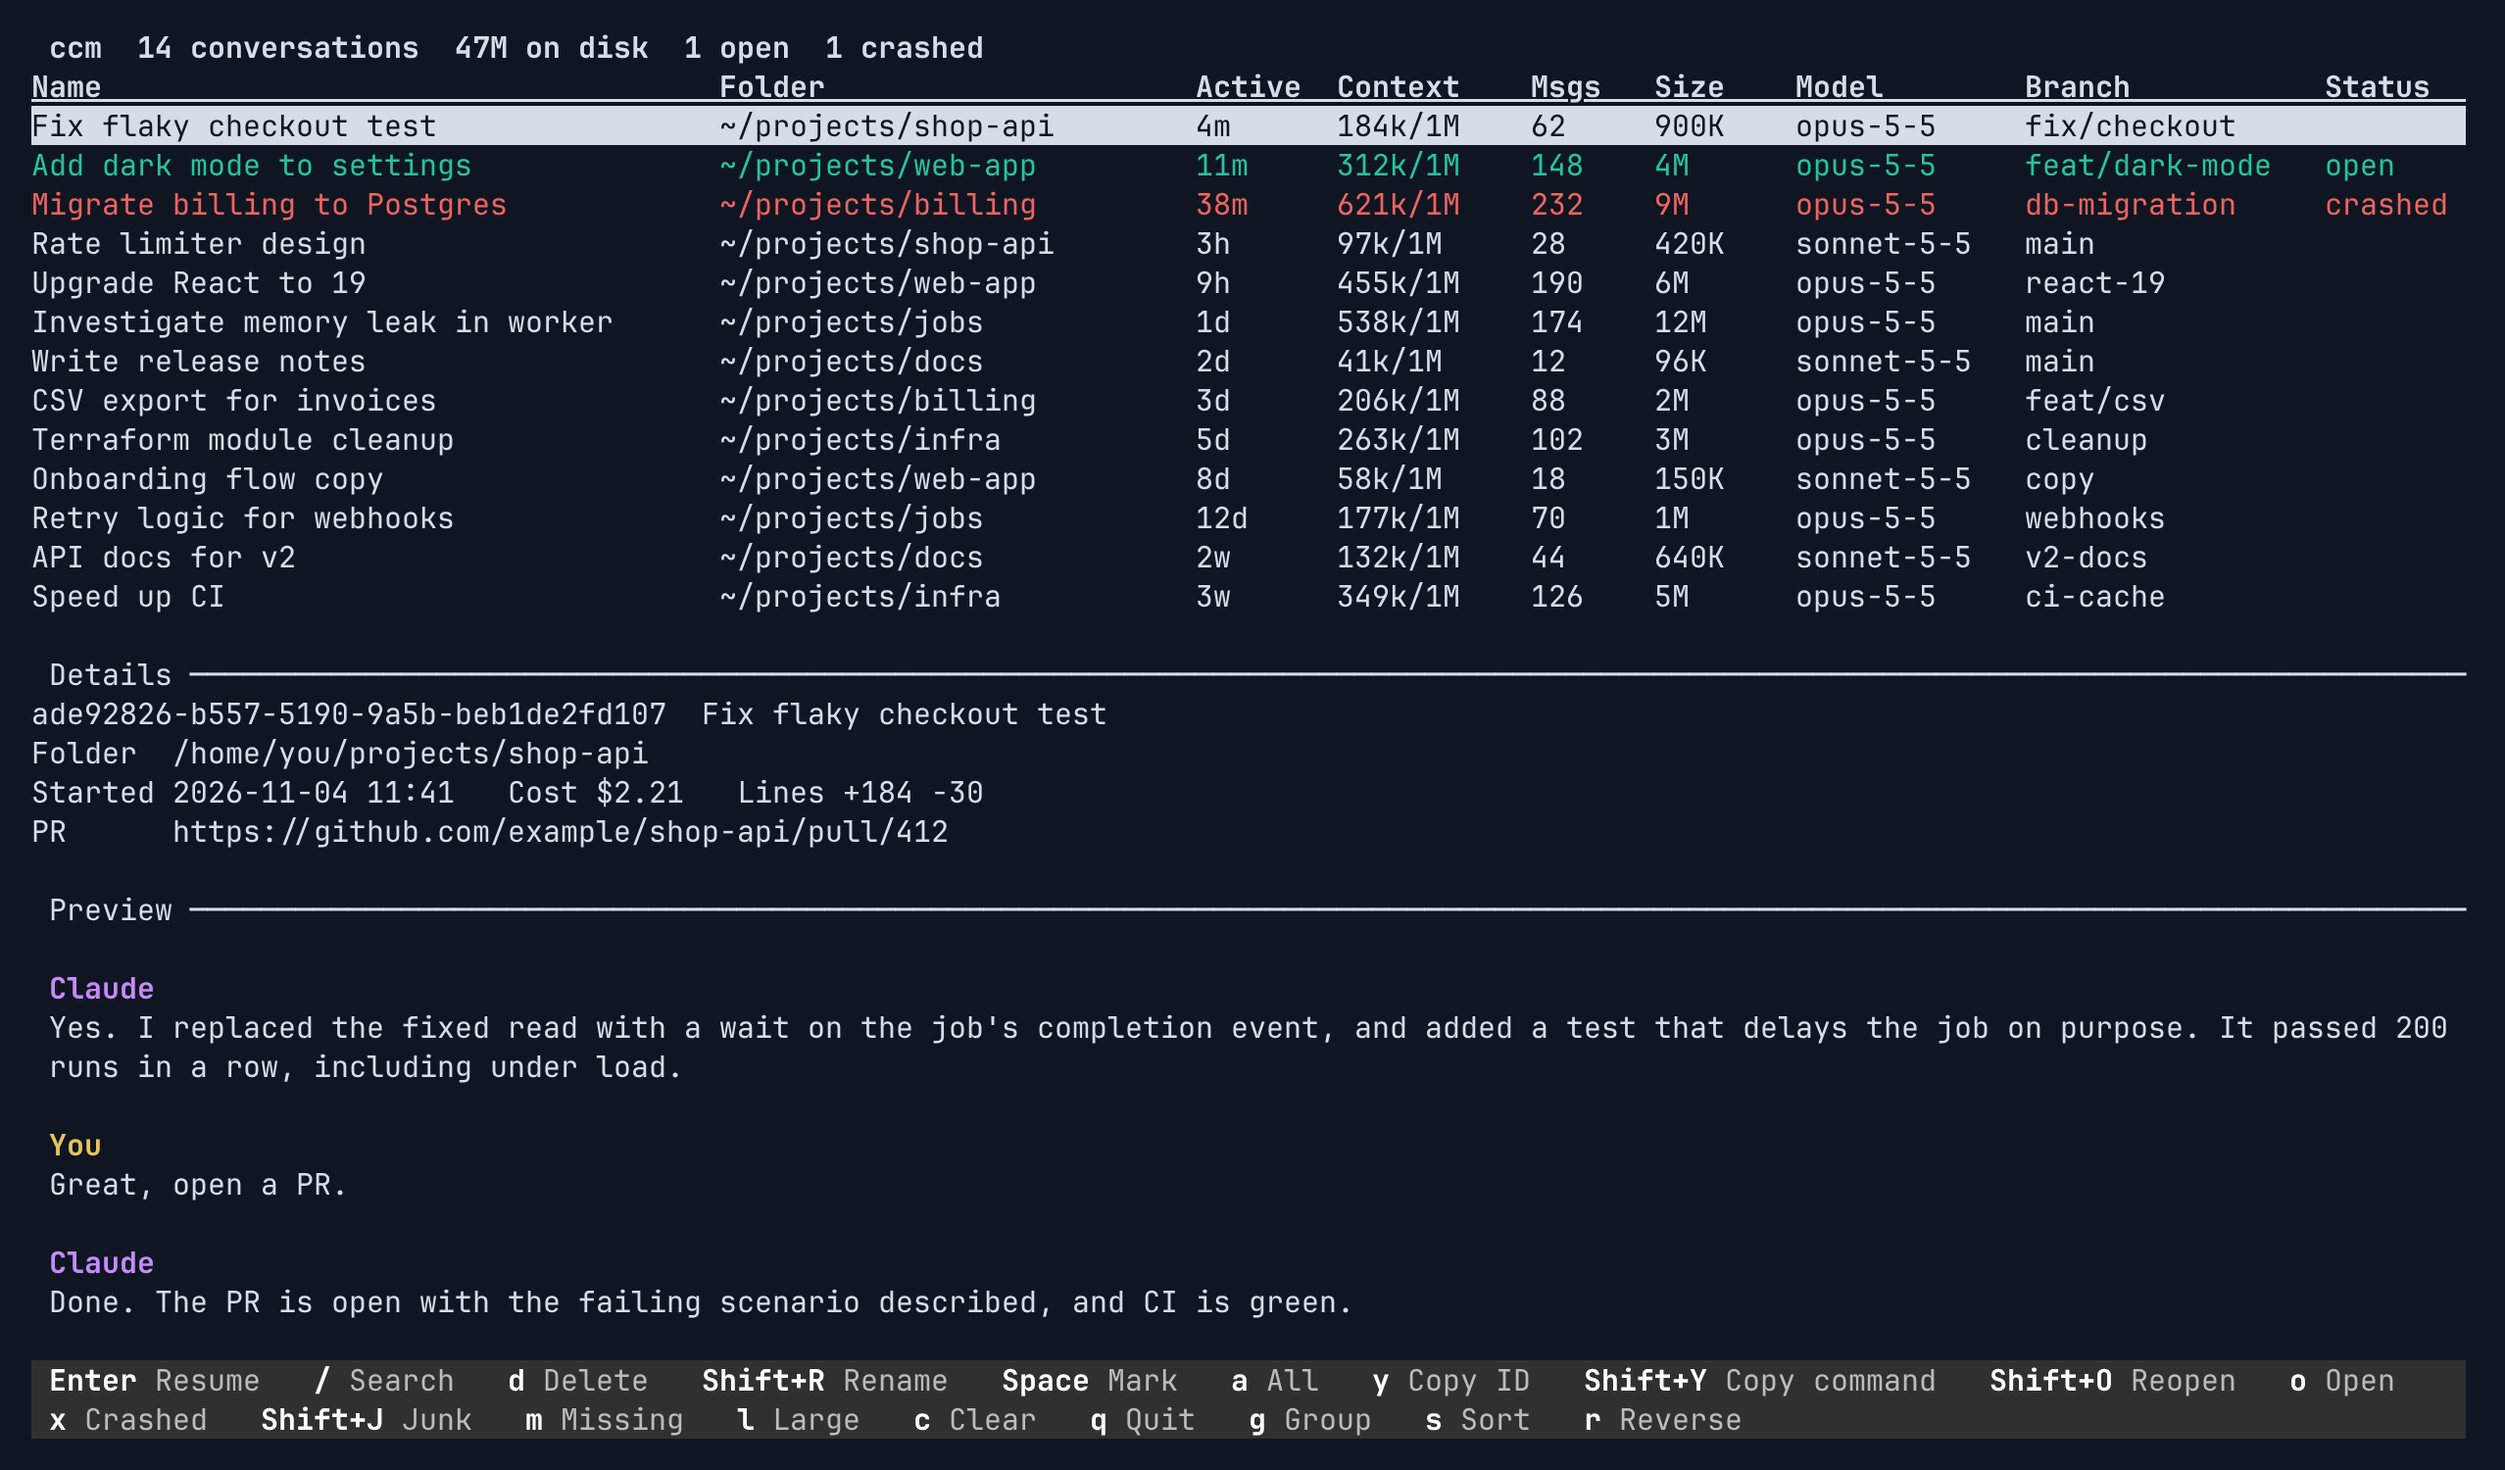
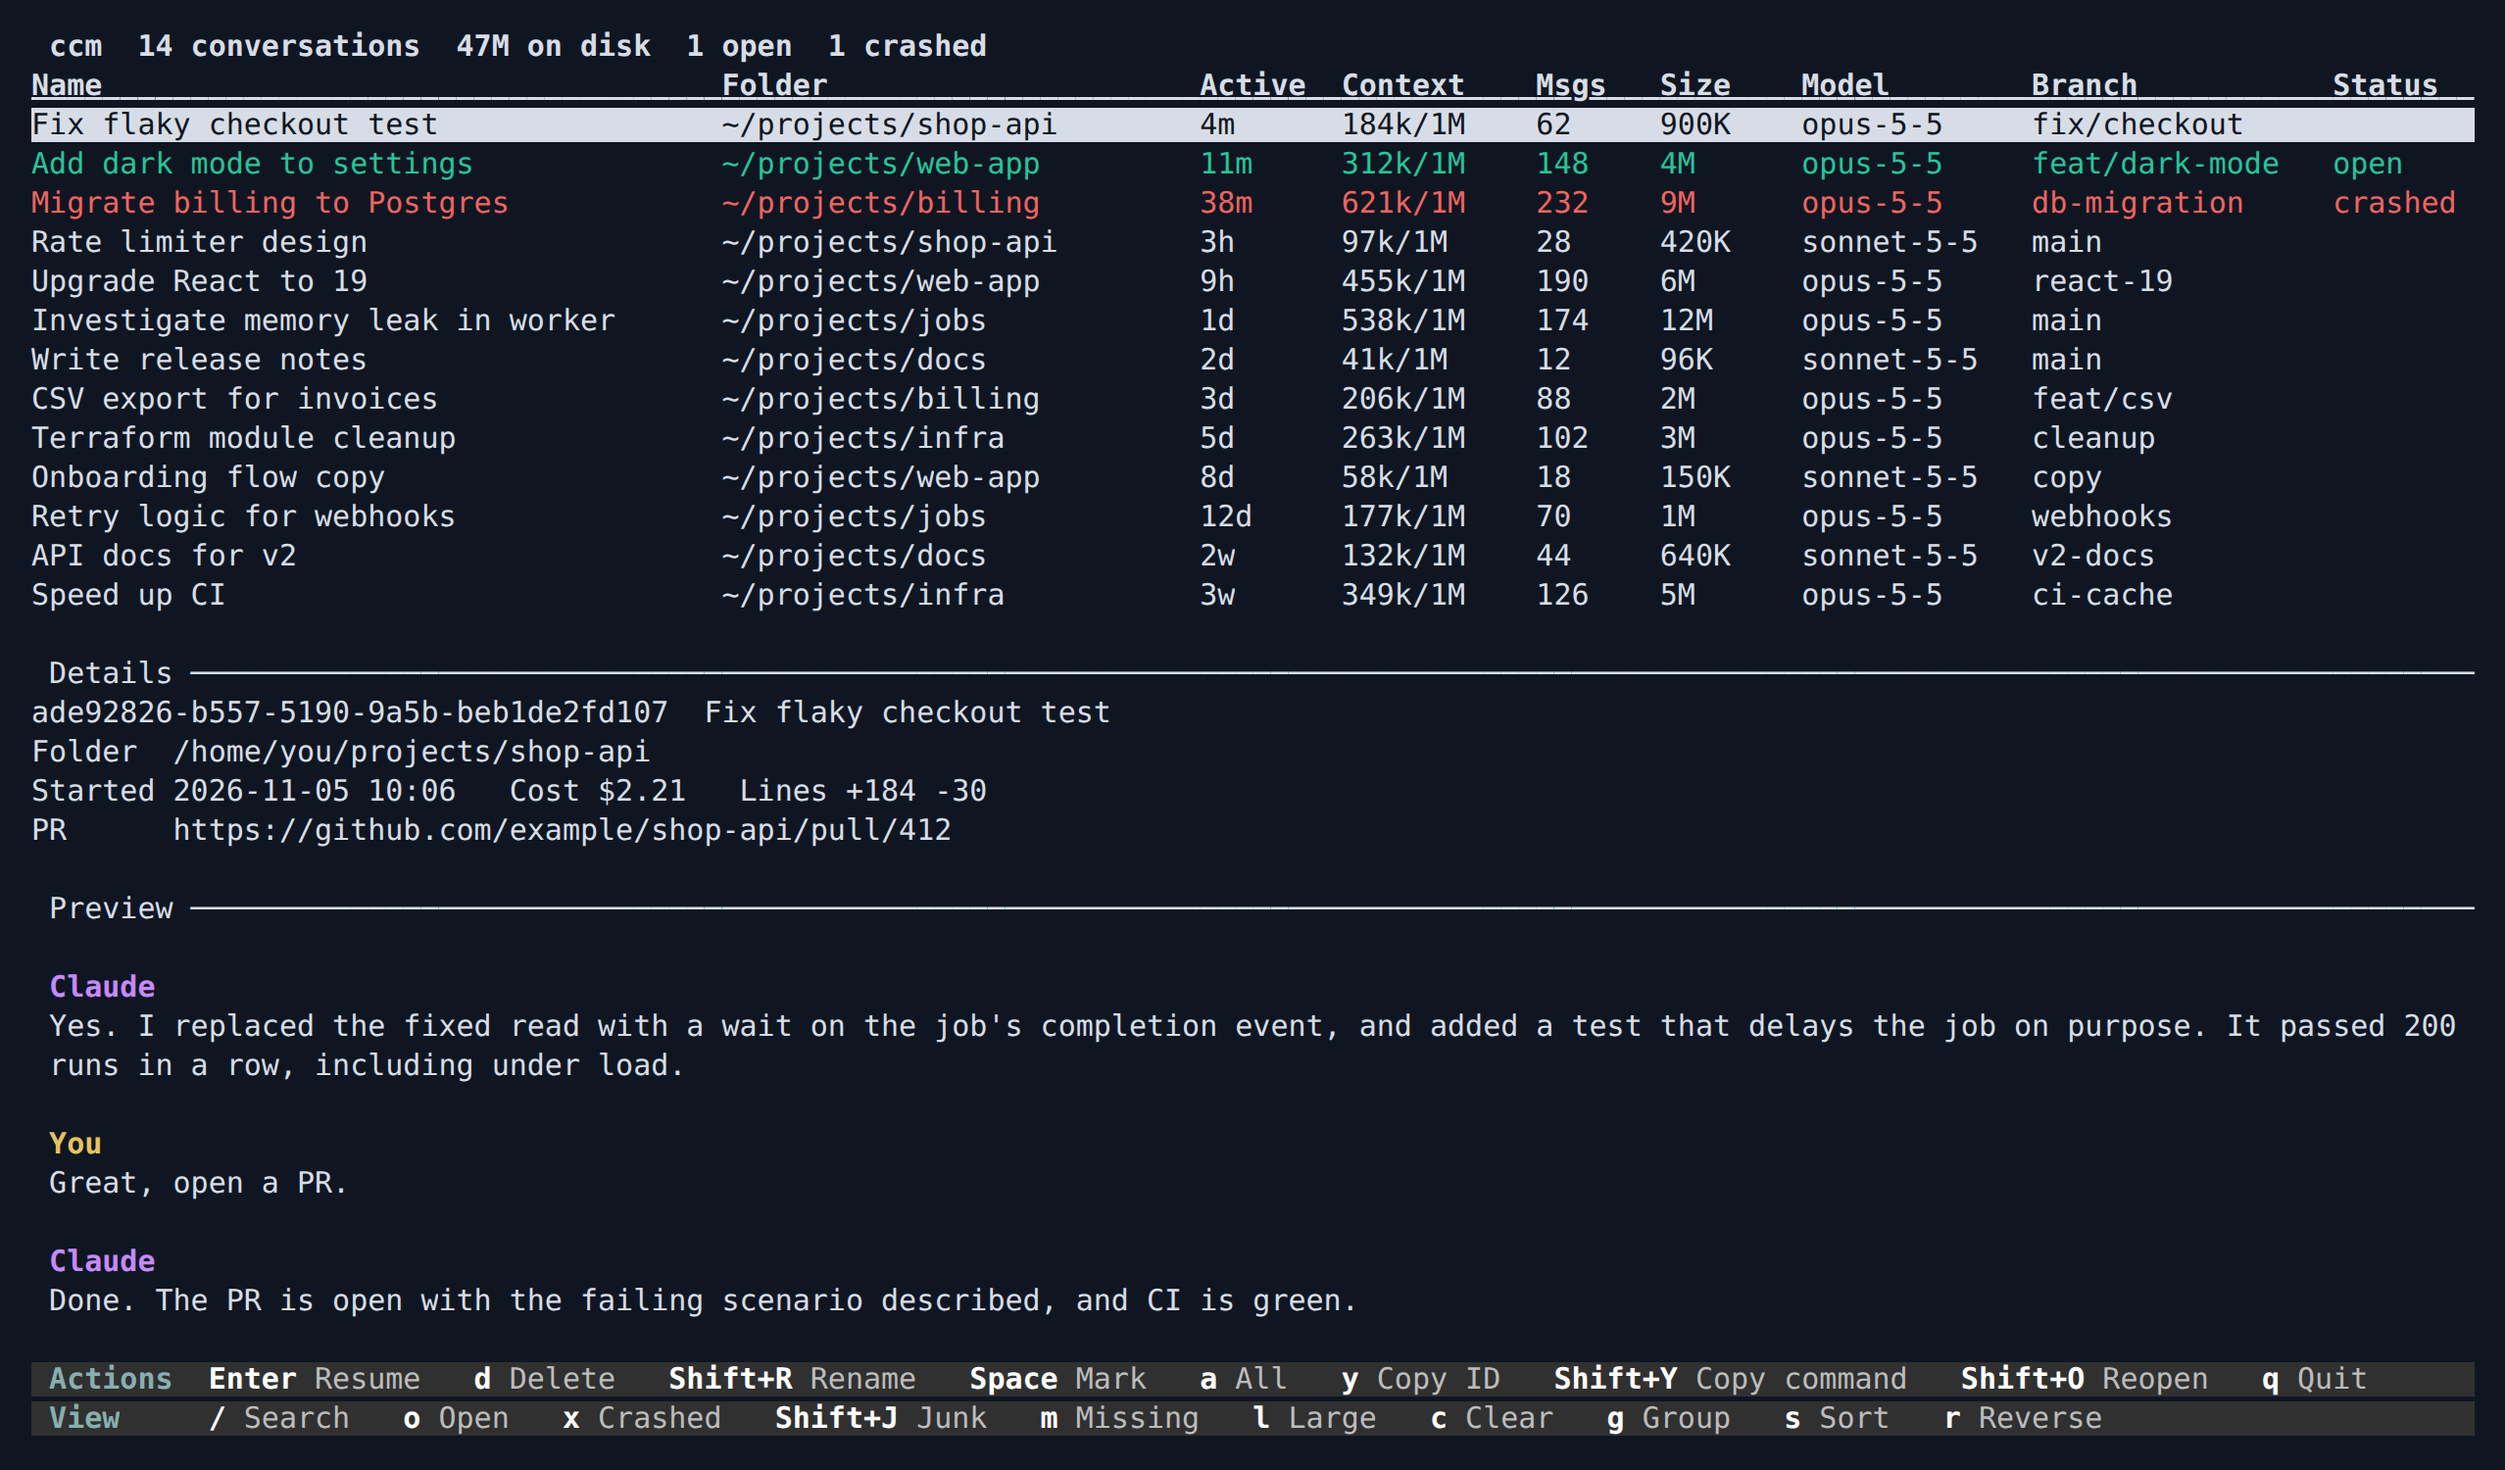
Separate actions and view controls in the footer (#2)
The footer showed every shortcut as one run of identical buttons, so "o Open"
read like opening a conversation when it only filters the list. Give Actions
and View their own labelled rows, with wrapped buttons kept under their group.

The footer can now take 4 rows, because 3 would lose buttons at 80 columns with
the labels. Group the README's key list the same way and update the screenshot.

diff --git a/crates/ccm/src/ui.rs b/crates/ccm/src/ui.rs
@@ -24,6 +24,10 @@ const BAR_OFF: Color = Color::Indexed(244);
 const BAR_NOTICE: Color = Color::Indexed(221);
 const BAR_ON: Color = Color::Indexed(252);
 const BAR_DANGER: Color = Color::Indexed(203);
+const BAR_GROUP: Color = Color::Indexed(109);
+/// Where a group's buttons start, so wrapped ones stay under their group.
+const FOOTER_INDENT: u16 = 9;
+const MAX_FOOTER_ROWS: u16 = 4;
 const MIN_HEIGHT_FOR_PREVIEW: u16 = 18;
 
 struct Column {
@@ -517,43 +521,61 @@ fn wrap(text: &str, width: usize) -> Vec<String> {
 }
 
 /// Every button, in priority order, since the last ones drop off a narrow terminal.
-fn footer_buttons(app: &App) -> [(&'static str, &'static str, Action, bool); 19] {
+type Button = (&'static str, &'static str, Action, bool);
+
+fn footer_groups(app: &App) -> [(&'static str, Vec<Button>); 2] {
     [
-        ("Enter", "Resume", Action::Resume, false),
-        ("/", "Search", Action::Search, !app.query.is_empty()),
-        ("d", "Delete", Action::Delete, app.confirm_delete.is_some()),
-        ("Shift+R", "Rename", Action::Rename, false),
-        ("Space", "Mark", Action::Mark, false),
-        ("a", "All", Action::MarkAll, false),
-        ("y", "Copy ID", Action::CopyId, false),
-        ("Shift+Y", "Copy command", Action::CopyCommand, false),
-        ("Shift+O", "Reopen", Action::Reopen, false),
-        ("o", "Open", Action::ToggleOpen, app.filters.open),
-        ("x", "Crashed", Action::ToggleCrashed, app.filters.crashed),
-        ("Shift+J", "Junk", Action::ToggleJunk, app.filters.junk),
-        ("m", "Missing", Action::ToggleMissing, app.filters.missing),
-        ("l", "Large", Action::ToggleLarge, app.filters.large),
-        ("c", "Clear", Action::ClearFilters, false),
-        ("q", "Quit", Action::Quit, false),
-        ("g", "Group", Action::ToggleGroup, app.grouped),
-        ("s", "Sort", Action::NextSort, false),
-        ("r", "Reverse", Action::ReverseSort, false),
+        (
+            "Actions",
+            vec![
+                ("Enter", "Resume", Action::Resume, false),
+                ("d", "Delete", Action::Delete, app.confirm_delete.is_some()),
+                ("Shift+R", "Rename", Action::Rename, false),
+                ("Space", "Mark", Action::Mark, false),
+                ("a", "All", Action::MarkAll, false),
+                ("y", "Copy ID", Action::CopyId, false),
+                ("Shift+Y", "Copy command", Action::CopyCommand, false),
+                ("Shift+O", "Reopen", Action::Reopen, false),
+                ("q", "Quit", Action::Quit, false),
+            ],
+        ),
+        (
+            "View",
+            vec![
+                ("/", "Search", Action::Search, !app.query.is_empty()),
+                ("o", "Open", Action::ToggleOpen, app.filters.open),
+                ("x", "Crashed", Action::ToggleCrashed, app.filters.crashed),
+                ("Shift+J", "Junk", Action::ToggleJunk, app.filters.junk),
+                ("m", "Missing", Action::ToggleMissing, app.filters.missing),
+                ("l", "Large", Action::ToggleLarge, app.filters.large),
+                ("c", "Clear", Action::ClearFilters, false),
+                ("g", "Group", Action::ToggleGroup, app.grouped),
+                ("s", "Sort", Action::NextSort, false),
+                ("r", "Reverse", Action::ReverseSort, false),
+            ],
+        ),
     ]
 }
 
-/// Lays the buttons out in rows, as `(row, x, text, action, on)`.
-fn footer_layout(app: &App, width: u16) -> Vec<(u16, u16, String, Action, bool)> {
-    let (mut row, mut x) = (0, 0);
+/// Lays out the group names, with no action, and their buttons in rows, as `(row, x, text, action, on)`.
+/// Each group starts its own row.
+fn footer_layout(app: &App, width: u16) -> Vec<(u16, u16, String, Option<Action>, bool)> {
+    let mut row = 0;
     let mut out = Vec::new();
-    for (key, label, action, on) in footer_buttons(app) {
-        let text = format!(" {key} {label} ");
-        let w = text.chars().count() as u16;
-        if x > 0 && x + w > width {
-            row += 1;
-            x = 0;
+    for (name, buttons) in footer_groups(app) {
+        out.push((row, 0, format!(" {name:<0$}", FOOTER_INDENT as usize - 1), None, false));
+        let mut x = FOOTER_INDENT;
+        for (key, label, action, on) in buttons {
+            let text = format!(" {key} {label} ");
+            let w = text.chars().count() as u16;
+            if x > FOOTER_INDENT && x + w > width {
+                row += 1;
+                x = FOOTER_INDENT;
+            }
+            out.push((row, x, text, Some(action), on));
+            x += w + 1;
         }
-        out.push((row, x, text, action, on));
-        x += w + 1;
+        row += 1;
     }
     out
 }
@@ -561,7 +583,7 @@ fn footer_layout(app: &App, width: u16) -> Vec<(u16, u16, String, Action, bool)>
 /// Stays the same whatever the footer is showing, so the table doesn't jump. Narrower terminals
 /// lose the last buttons rather than more of the table.
 fn footer_rows(app: &App, width: u16) -> u16 {
-    footer_layout(app, width).last().map_or(1, |b| b.0 + 1).min(3)
+    footer_layout(app, width).last().map_or(1, |b| b.0 + 1).min(MAX_FOOTER_ROWS)
 }
 
 fn draw_footer(f: &mut Frame, app: &mut App, area: Rect) {
@@ -601,6 +623,13 @@ fn draw_footer(f: &mut Frame, app: &mut App, area: Rect) {
     app.hit.buttons.clear();
     for (row, x, text, action, on) in layout {
         let Some(spans) = rows.get_mut(row as usize) else { break };
+        let Some(action) = action else {
+            spans.push(Span::styled(text, bar.fg(BAR_GROUP).add_modifier(Modifier::BOLD)));
+            continue;
+        };
+        if spans.is_empty() {
+            spans.push(Span::raw(" ".repeat(x as usize)));
+        }
         let width = text.chars().count() as u16;
         let disabled = match action {
             Action::Resume => !app.can_resume(),
@@ -755,7 +784,7 @@ mod tests {
         let (w, h) = (160, 30);
         let screen = render(&mut a, w, h);
         let lines: Vec<&str> = screen.lines().collect();
-        let footer = lines.iter().position(|l| l.contains("/ Search")).unwrap();
+        let footer = lines.iter().position(|l| l.contains("Enter Resume")).unwrap();
         assert!(lines[footer - 1].is_empty(), "{screen}");
         let details = lines.iter().position(|l| l.contains(" Details ")).unwrap();
         assert!(lines[details - 1].is_empty(), "{screen}");
@@ -763,8 +792,10 @@ mod tests {
         let cells = buffer(&mut a, w, h);
         assert_eq!(cells[(w - 1, footer as u16)].bg, BAR, "reaches the right edge");
         assert_eq!(cells[(0, footer as u16 - 1)].bg, Color::Reset);
-        let key = lines[footer].find("/ Search").unwrap() as u16;
-        assert_eq!((cells[(key, footer as u16)].fg, cells[(key + 2, footer as u16)].fg), (BAR_KEY, BAR_LABEL));
+        assert_eq!(cells[(1, footer as u16)].fg, BAR_GROUP);
+        let search = row_of(&screen, "/ Search");
+        let key = lines[search].find("/ Search").unwrap() as u16;
+        assert_eq!((cells[(key, search as u16)].fg, cells[(key + 2, search as u16)].fg), (BAR_KEY, BAR_LABEL));
     }
 
     #[test]
@@ -815,6 +846,40 @@ mod tests {
         for button in ["Shift+R Rename", "Shift+Y Copy command", "Shift+O Reopen", "Shift+J Junk", "q Quit"] {
             assert!(screen.contains(button), "{button} missing from {screen}");
         }
+    }
+
+    #[test]
+    fn actions_and_view_controls_sit_in_their_own_labelled_groups() {
+        let mut a = app();
+        let screen = render(&mut a, 160, 30);
+        let lines: Vec<&str> = screen.lines().collect();
+        let actions = lines[row_of(&screen, "Enter Resume")];
+        let view = lines[row_of(&screen, "o Open")];
+        assert!(actions.starts_with(" Actions") && actions.contains("q Quit") && !actions.contains("o Open"), "{screen}");
+        assert!(view.starts_with(" View") && view.contains("r Reverse") && !view.contains("q Quit"), "{screen}");
+    }
+
+    #[test]
+    fn every_button_fits_at_80_columns_and_wrapped_ones_stay_under_their_group() {
+        let mut a = app();
+        let screen = render(&mut a, 80, 30);
+        let count: usize = footer_groups(&a).iter().map(|(_, buttons)| buttons.len()).sum();
+        assert_eq!(a.hit.buttons.len(), count);
+        assert_eq!(footer_rows(&a, 80), MAX_FOOTER_ROWS);
+        let lines: Vec<&str> = screen.lines().collect();
+        let start = |text| lines[row_of(&screen, text)].find(text).unwrap();
+        assert_eq!(start("y Copy ID"), start("Enter Resume"), "{screen}");
+        assert_eq!(start("c Clear"), start("/ Search"), "{screen}");
+    }
+
+    #[test]
+    fn clicking_a_group_name_does_nothing() {
+        let mut a = app();
+        let screen = render(&mut a, 160, 20);
+        let y = row_of(&screen, "o Open") as u16;
+        assert!(!a.hit.buttons.iter().any(|(r, _)| r.x <= 2 && 2 < r.x + r.width && r.y == y));
+        a.on_mouse(MouseEventKind::Down(MouseButton::Left), 2, y);
+        assert!(!a.quit && a.status.is_none());
     }
 
     #[test]
@@ -1760,7 +1825,7 @@ mod tests {
     fn every_button_is_reachable_on_a_normal_width_and_narrow_does_not_panic() {
         let mut a = app();
         render(&mut a, 120, 30);
-        assert_eq!(a.hit.buttons.len(), footer_buttons(&a).len());
+        assert_eq!(a.hit.buttons.len(), footer_groups(&a).iter().map(|(_, buttons)| buttons.len()).sum::<usize>());
         for width in [160, 120, 100, 60, 20, 5, 1] {
             render(&mut a, width, 30);
             render(&mut a, width, 3);
@@ -1772,7 +1837,7 @@ mod tests {
         let mut a = app();
         let screen = render(&mut a, 100, 30);
         let y = row_of(&screen, "q Quit");
-        assert_eq!(y, 29, "{screen}");
+        assert_eq!(y, 27, "{screen}");
         let x = screen.lines().nth(y).unwrap().find("q Quit").unwrap() as u16;
         a.on_mouse(MouseEventKind::Down(MouseButton::Left), x, y as u16);
         assert!(a.quit);

diff --git a/README.md b/README.md
@@ -87,23 +87,37 @@ Run `ccm` from anywhere.
 
 ### Keys
 
-Most actions are also buttons in the footer, so you can click them.
+Most keys are also buttons in the footer, so you can click them. The footer splits them into **Actions**, which do something to a conversation, and **View**, which only change what the list shows.
 
-| Key | Action |
+Moving around:
+
+| Key | What it does |
 |---|---|
 | Up, Down, or `k`, `j` | Move the selection |
 | Page Up, Page Down, Home, End | Move further |
-| Enter | Resume the selected conversation |
-| `/` | Search. Enter keeps the results, Esc clears them |
 | `[`, `]` | Scroll the preview back and forward |
-| Space | Mark or unmark, then move to the next row |
-| `a` | Mark everything shown, or clear those marks |
+
+Actions:
+
+| Key | What it does |
+|---|---|
+| Enter | Resume the selected conversation |
 | `d`, then `y` | Delete the selected or marked conversations |
 | `m`, while confirming a delete | Choose whether to delete memory notes too. It only appears when there are notes to delete |
 | `Shift+R` | Rename |
+| Space | Mark or unmark, then move to the next row |
+| `a` | Mark everything shown, or clear those marks |
 | `y` | Copy the conversation's ID |
 | `Shift+Y` | Copy the command that resumes it |
 | `Shift+O` | Open the list of crashed conversations to reopen |
+| Esc | Clear the marks, then the search, then quit |
+| `q`, Ctrl-C | Quit |
+
+View:
+
+| Key | What it does |
+|---|---|
+| `/` | Search. Enter keeps the results, Esc clears them |
 | `o` | Show only open conversations |
 | `x` | Show only crashed conversations |
 | `Shift+J` | Show only junk, meaning conversations Claude never replied to |
@@ -113,8 +127,6 @@ Most actions are also buttons in the footer, so you can click them.
 | `g` | Group by folder |
 | `s` | Change the sort column |
 | `r` | Reverse the sort |
-| Esc | Clear the marks, then the search, then quit |
-| `q`, Ctrl-C | Quit |
 
 With the mouse, you can click a row to select it, double-click to resume, click a column heading to sort, and use the wheel to scroll.
 
